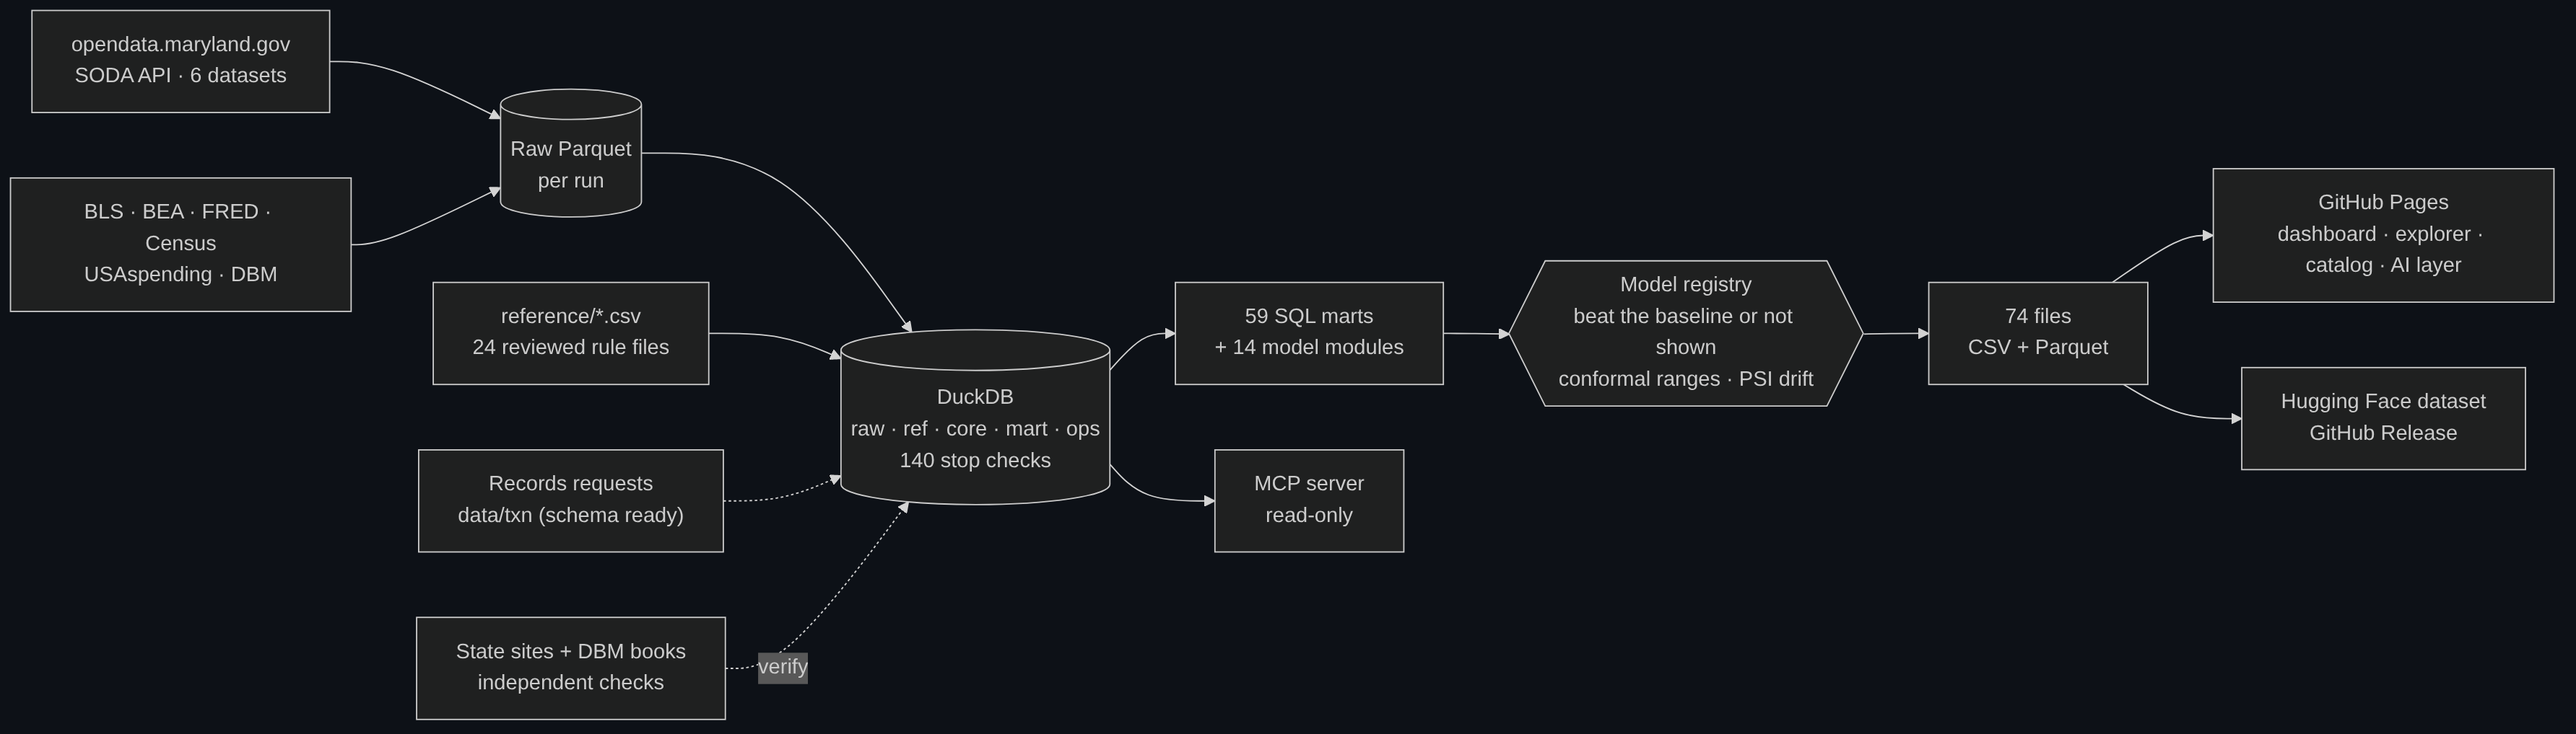
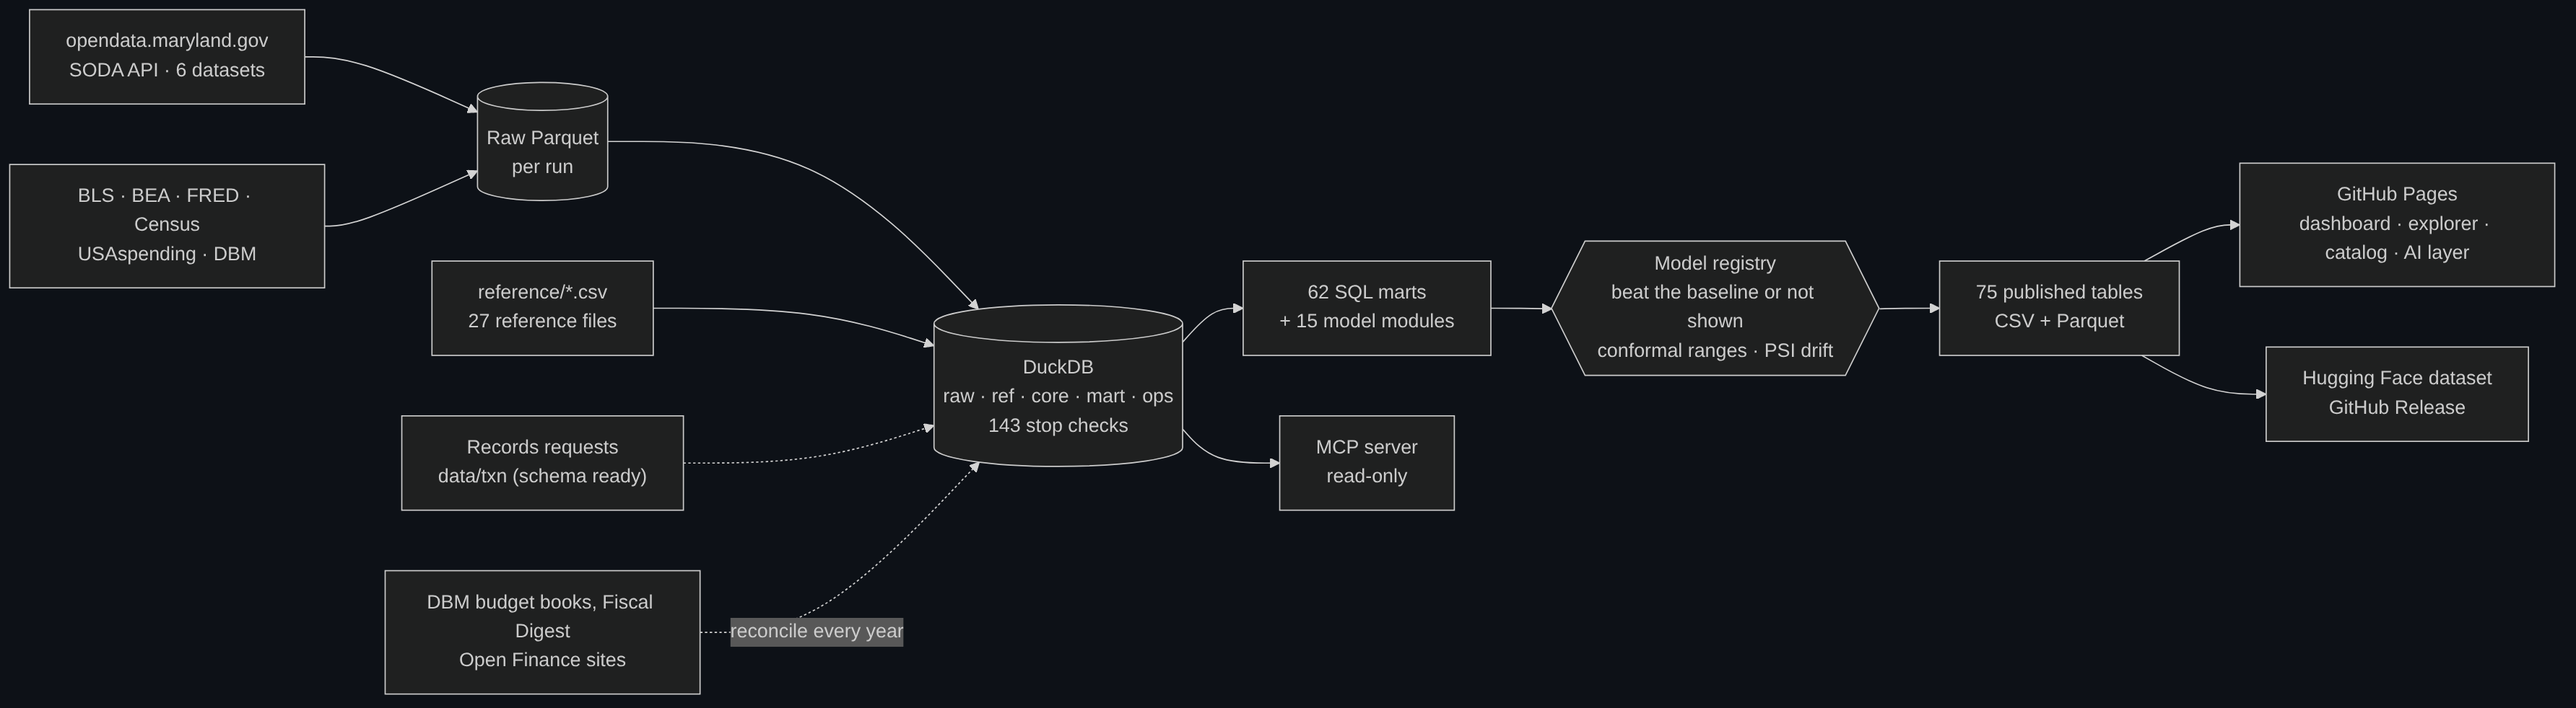
Release 3.2: version 3.2.0, README and metadata current
- pyproject.toml and CITATION.cff at 3.2.0 (released 2026-11-16); CITATION abstract states
  the reconciliation and the proprietary license
- README: version badge, columns badge (2,319 of 2,319), reconcile step in How it works,
  books.py in the layout, next steps (FY2028 books, merge order for #5 and #6)
- Pipeline diagram: 143 stop checks, 62 marts, 15 model modules, 75 published tables, the
  DBM and site reconciliation
- CHANGELOG 3.2.0: version bump and the site figure fix

451 tests, 37 of 37 page tests, lint clean, doc counts current.

Claude-Session: https://claude.ai/code/session_01PGNQKvTMbfBAPeZyUjUiDv

diff --git a/README.md b/README.md
@@ -9,7 +9,7 @@
 <!-- facts:badges -->
 ![Data checks](https://img.shields.io/badge/data%20checks-143%20of%20143%20pass%2C%200%20fail-2da44e) ![Data as of](https://img.shields.io/badge/data%20as%20of-2026--11--13-0969da)
 <!-- /facts:badges -->
-![Columns documented](https://img.shields.io/badge/columns%20documented-2%2C212%20of%202%2C212-2da44e)
+![Columns documented](https://img.shields.io/badge/columns%20documented-2%2C319%20of%202%2C319-2da44e) ![Version](https://img.shields.io/badge/version-3.2.0-0969da)
 ![Source](https://img.shields.io/badge/source-SODA%20API%20%C2%B7%206%20datasets-6e7781)
 [![License: All rights reserved](https://img.shields.io/badge/license-all%20rights%20reserved-6e7781)](LICENSE)
 
@@ -144,20 +144,21 @@ Context sources (`src/pipeline/enrich.py`; a failure warns, never blocks): CPI-U
 
 <picture>
   <source media="(prefers-color-scheme: dark)" srcset="docs/figures/readme/pipeline_dark.png">
-  <img src="docs/figures/readme/pipeline_light.png" alt="Pipeline: SODA API to raw Parquet to DuckDB with 140 stop checks, 59 marts and 14 model modules, the model registry, 74 published files, the Pages site, a data release and a read-only MCP server; State sites and DBM books verify the database">
+  <img src="docs/figures/readme/pipeline_light.png" alt="Pipeline: SODA API to raw Parquet to DuckDB with 143 stop checks, 62 SQL marts and 15 model modules, the model registry, 75 published tables, the Pages site, a data release and a read-only MCP server; DBM's budget books, the Fiscal Digest and the Open Finance sites reconcile every year">
 </picture>
 
 | Step | Module | Result |
 |---|---|---|
 | Extract | `src/pipeline/extract.py`, `enrich.py` | One Parquet file per dataset per run with a manifest; context from BLS, BEA, FRED, Census, USAspending and DBM (a failure warns, never blocks) |
 | Build and check | `build.py`, `checks.py` | DuckDB layers raw, ref, core, mart, ops; <!-- n:checks -->143<!-- /n --> checks; a failed stop check keeps the last good database |
+| Reconcile | `books.py`, `reconcile.py` | Every year against DBM's budget books, the Fiscal Digest and the Open Finance sites; results stored as sourced reference data and re-tested every build |
 | Rules | `reference/` (<!-- n:reference_files -->27<!-- /n --> files) | Every mapping and decision in a reviewed file with its reason and source |
 | Marts | `sql/mart/` (<!-- n:marts -->62<!-- /n --> files) | The tables the dashboard reads; one mart per file, lineage recorded |
 | Models | `src/models/` (14 modules) | Forecasts, challenger, revenue, detectors and their backtest, savings checks, payment screen, classifier, grant groups, anomaly flags, registry and drift |
 | Publish | `export.py`, `site.py`, `publish.py` | Export refused unless every stop check passes; static site; data release |
 | AI access | `src/mcp/`, `src/briefs/` | Read-only MCP server; one-line briefs with a number guardrail |
 
-Quality bar: <!-- n:documented_columns -->2,319<!-- /n --> of 2,212 columns documented (`reference/column_dictionary.csv`), every figure on the page read from a published file, all financial figures by Maryland fiscal year (July 1–June 30).
+Quality bar: every one of the <!-- n:documented_columns -->2,319<!-- /n --> columns documented (`reference/column_dictionary.csv`), every figure on the page read from a published file, all financial figures by Maryland fiscal year (July 1–June 30).
 
 ## AI layer
 
@@ -207,9 +208,9 @@ Secrets: `MD_SODA_APP_TOKEN` (optional for SODA 2.1, required for SODA3), `HF_TO
 
 ```
 config/        datasets, dashboard files, assumptions
-reference/     reviewed rules, decisions, audit register, field availability (CSV)
+reference/     reviewed rules, decisions, audit register, field availability, DBM and site reconciliation figures (CSV)
 sql/mart/      one SQL file per mart
-src/pipeline/  extract, enrich, build, checks, marts, txn, export, site, publish, reconcile, parity, governance
+src/pipeline/  extract, enrich, build, checks, marts, txn, books, export, site, publish, reconcile, parity, governance
 src/models/    forecasts, challenger, revenue, detectors, backtest, savings, payment screen, classifier, grant groups, anomaly, registry
 src/mcp/       read-only MCP server
 src/briefs/    briefs and their guardrail
@@ -250,6 +251,8 @@ legacy/        the original pandas pipeline and dashboard, kept as the parity ba
 
 - Sierra's review of the 8 payment leads (`docs/reviews/payment_screen_review_sheet.csv`) and the 400 payee labels (`reference/payee_labels_sample.csv`).
 - Public Information Act requests: the Comptroller for payment-level MSDE records (FY2023–FY2025), and MSDE for audit, recoupment and waiver records.
+- January 2027: when DBM posts the FY2028 budget books, add them to `src/pipeline/books.py` so FY2026's working budget becomes an exact check instead of a bridge.
+- Merge the open pull requests in order: #5 (walkthrough report), then #6 (program screen) after its audit findings are folded into `reference/audit_findings.csv`.
 - Move the extract to SODA3 with `MD_SODA_APP_TOKEN`, keeping SODA 2.1 as a fallback.
 
 History, decisions D1–D9 and the gap list: [docs/roadmap.md](docs/roadmap.md). Data governance: [docs/data-governance.md](docs/data-governance.md). Checks: [docs/checks.md](docs/checks.md).

diff --git a/CHANGELOG.md b/CHANGELOG.md
@@ -14,6 +14,10 @@ Added
 
 Changed
 - License: proprietary, all rights reserved (was MIT). Copies obtained under the earlier license keep those terms.
+- Version 3.2.0 in `pyproject.toml` and `CITATION.cff`; README badges, pipeline diagram and next steps updated.
+
+Fixed
+- The site copies figure subfolders, so the about page's README figures resolve.
 
 ## [3.1.0] - 2026-11-16
 
